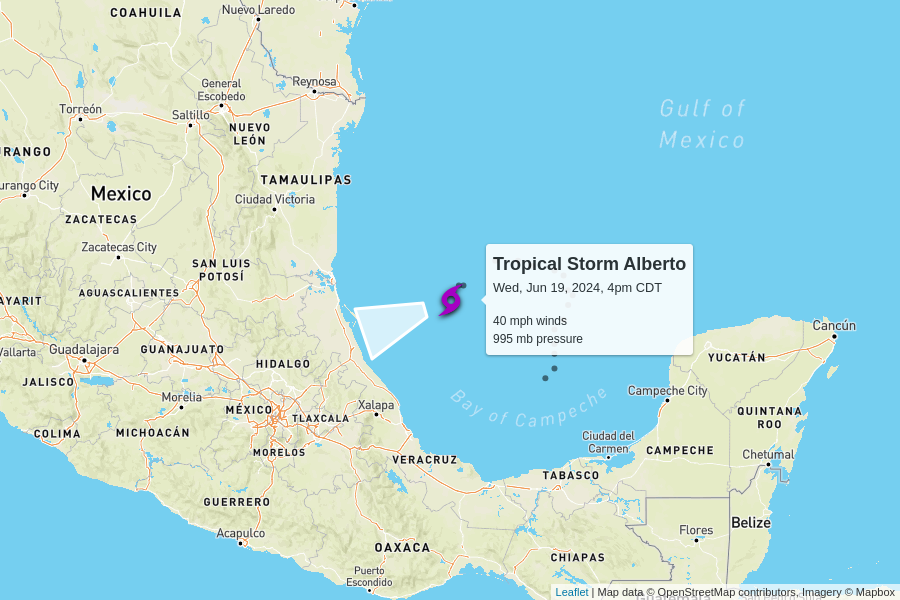
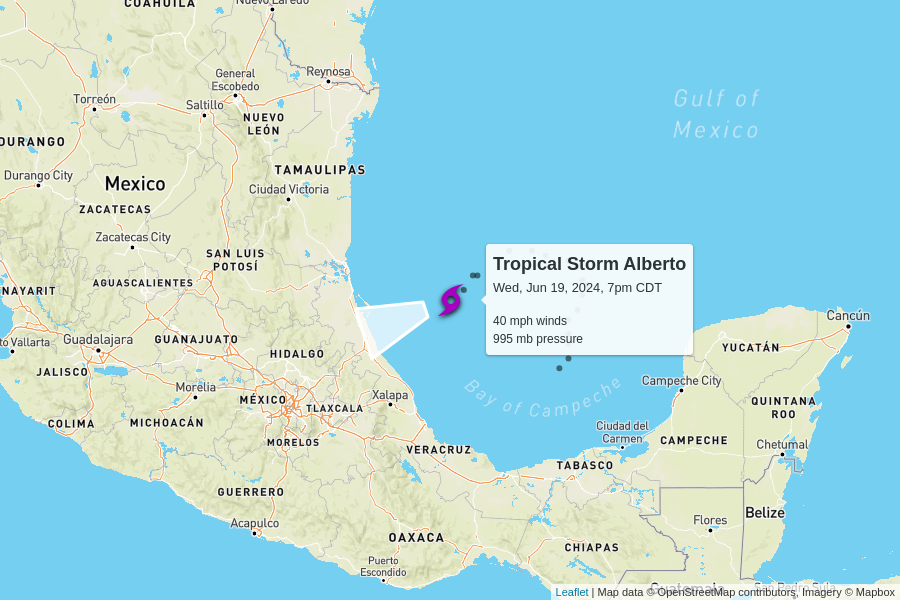
automatic update

diff --git a/docs/index.html b/docs/index.html
@@ -102,7 +102,7 @@
         <td colspan="6" class="storm category-0" >
           <h2>
             Tropical Storm Alberto
-            <p class="updated">last updated <span data-time>2024-06-19T21:00:00.000Z</span></p>
+            <p class="updated">last updated <span data-time>2024-06-20T00:00:00.000Z</span></p>
           </h2>
         </td>
       </tr>
